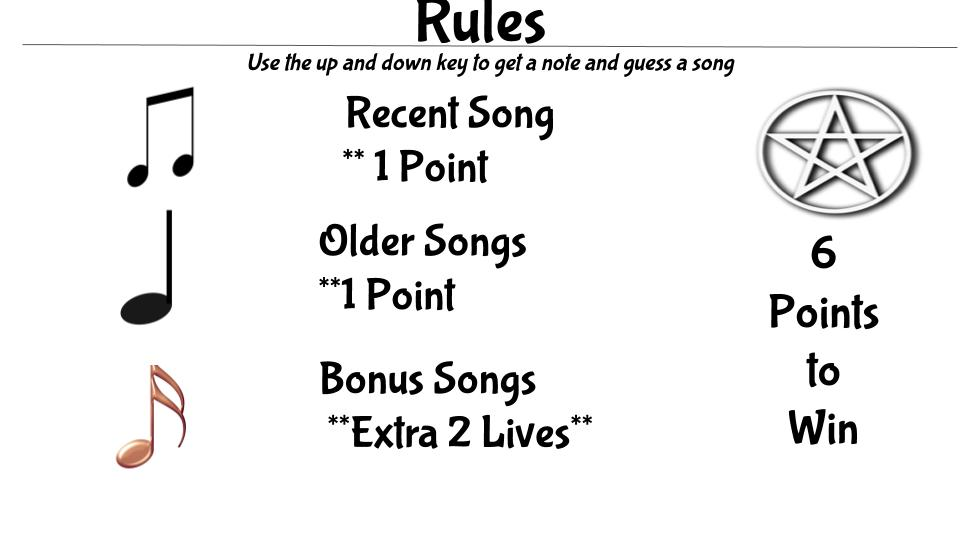
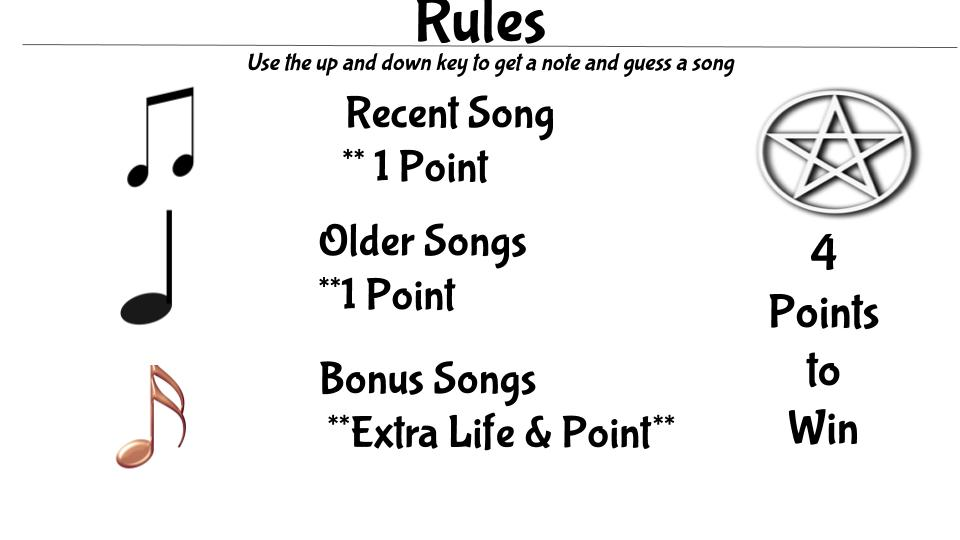
update

Changed region(s): [[0.4688, 0.7704, 0.7188, 0.8296], [0.8438, 0.4444, 0.875, 0.5037]]

diff --git a/src/Game.java b/src/Game.java
@@ -55,7 +55,7 @@ public class Game {
     titleSong = new WavPlayer("songs/Holy Mountain.wav");
     // notesPic = "images/get.png";
     counter = 0;
-    goal = 2;
+    goal = 4;
     winPic = "images/WON.png";
     // titleSong.startSound();
 
@@ -157,7 +157,7 @@ public class Game {
 
       for (int i = 0; i < 2; i++) {
         if (i == 1) {
-          for (int j = 0; j < 9; j++) {
+          for (int j = 0; j < 5; j++) {
             grid.pause(100);
             grid.setBackground("win/frame_" + i + "" + j + "_delay-0.14s.gif");
           }
@@ -225,8 +225,9 @@ public class Game {
       // losingLives.pause()
       // loserSong.startSound();
     }
-    grid.pause(10000);
+    grid.pause(8000);
     winnerSong.pauseSound();
+    loserSong.pauseSound();
     grid.close();
 
   }
@@ -443,7 +444,8 @@ public class Game {
         if (answer.equals(guess)) {
           // correct
           System.out.println("Correct");
-          lives += 2;
+          lives++;
+          score++;
           Location ifLoc = new Location(userRow, 0);
           grid.setImage(ifLoc, mainWitch);
         } else {
